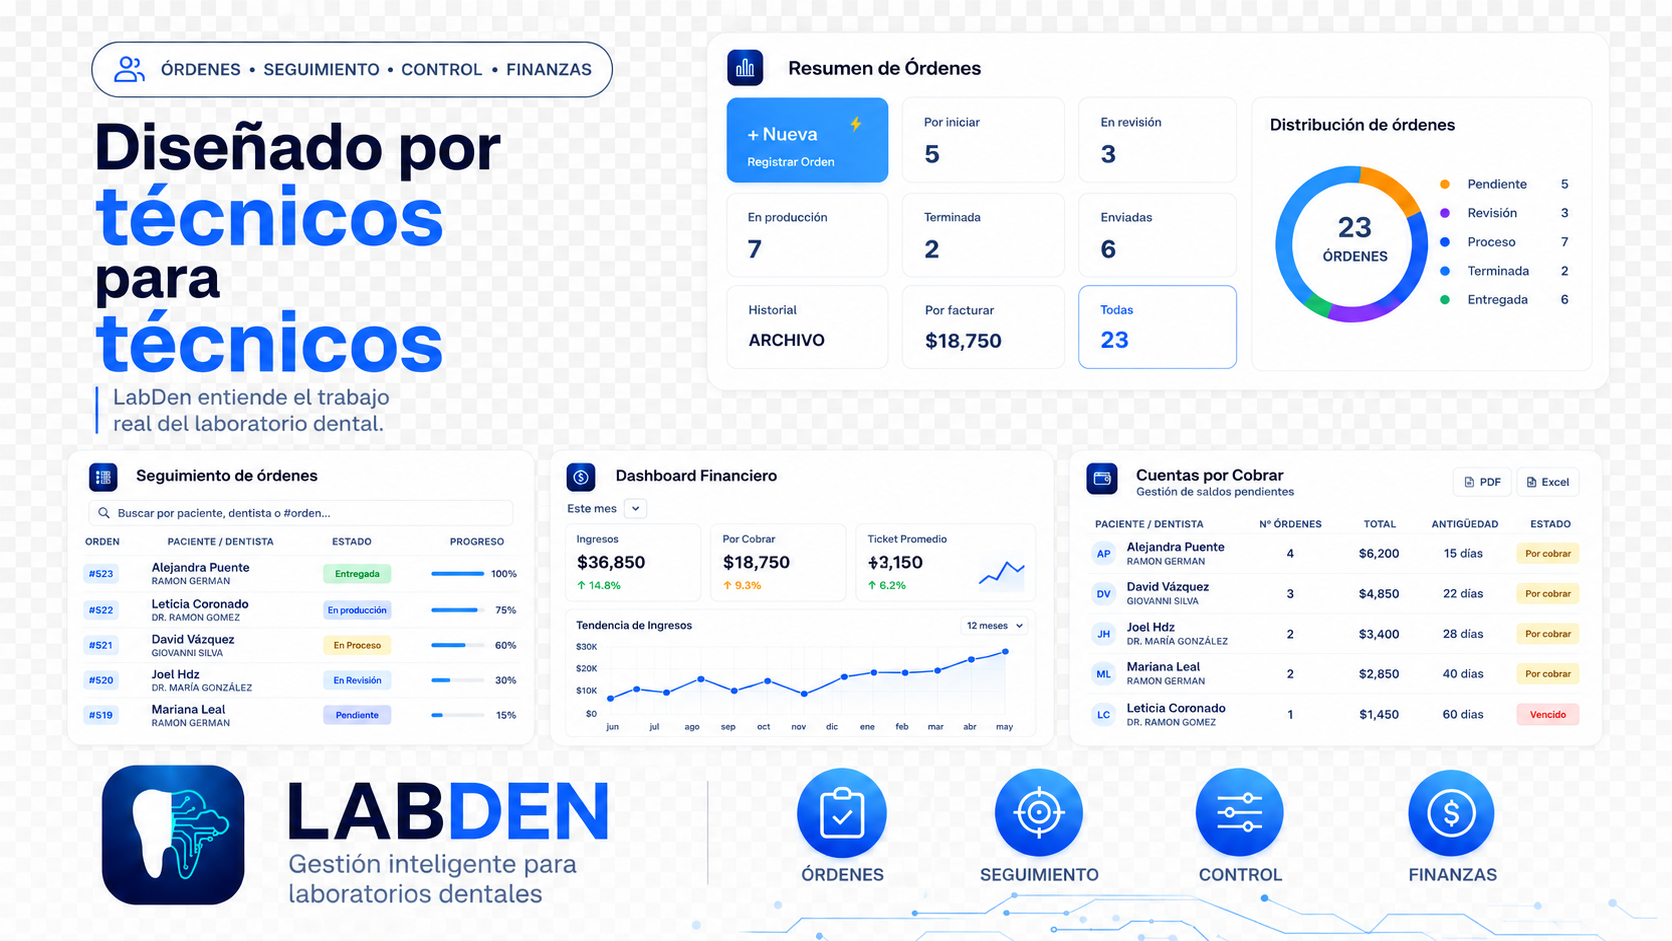
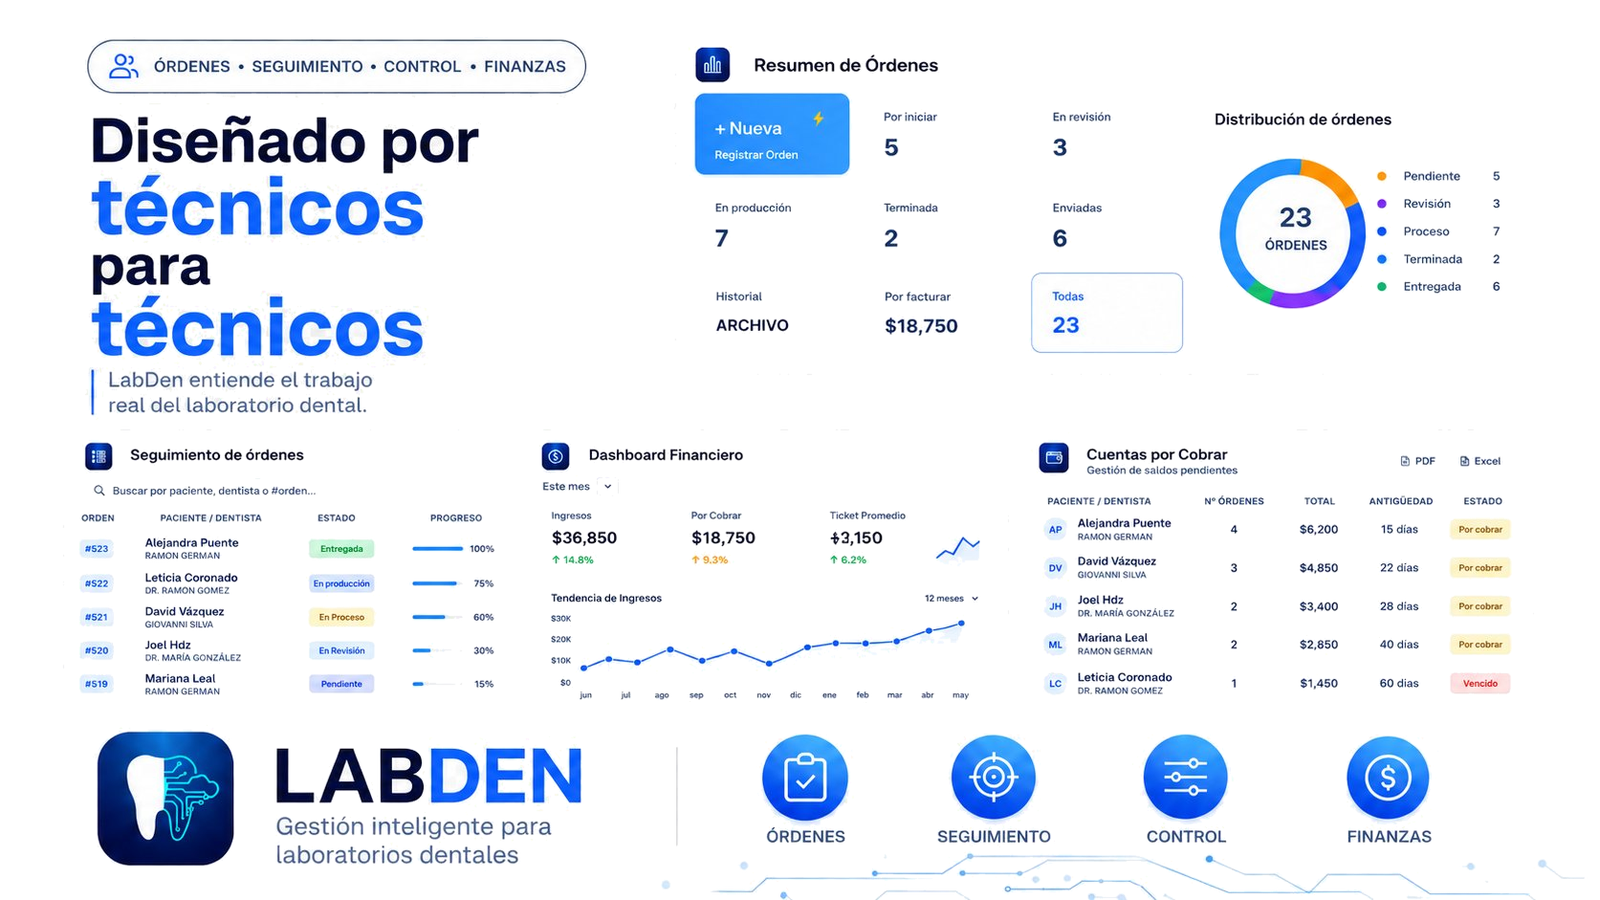
fix(hero): use proper transparent 1600x900 image with dark bg
- Real RGBA transparency (no checkerboard artifacts)
- 16:9 aspect ratio, 900KB
- Dark background container matches the image style
- Rounded corners + shadow for polish

diff --git a/components/home/hero.tsx b/components/home/hero.tsx
@@ -61,13 +61,13 @@ export function HeroSection() {
                 </div>
 
                 {/* Hero image — full width */}
-                <div className="relative max-w-5xl mx-auto rounded-2xl overflow-hidden bg-white shadow-xl border border-border">
+                <div className="relative max-w-5xl mx-auto rounded-2xl overflow-hidden bg-[#0a1628] p-4 md:p-6 shadow-2xl">
                     <Image
                         src="/images/hero-platform.png"
                         alt="Plataforma LabDen — órdenes, seguimiento, finanzas"
-                        width={1672}
-                        height={941}
-                        className="w-full h-auto"
+                        width={1600}
+                        height={900}
+                        className="w-full h-auto rounded-xl"
                         priority
                     />
                 </div>
